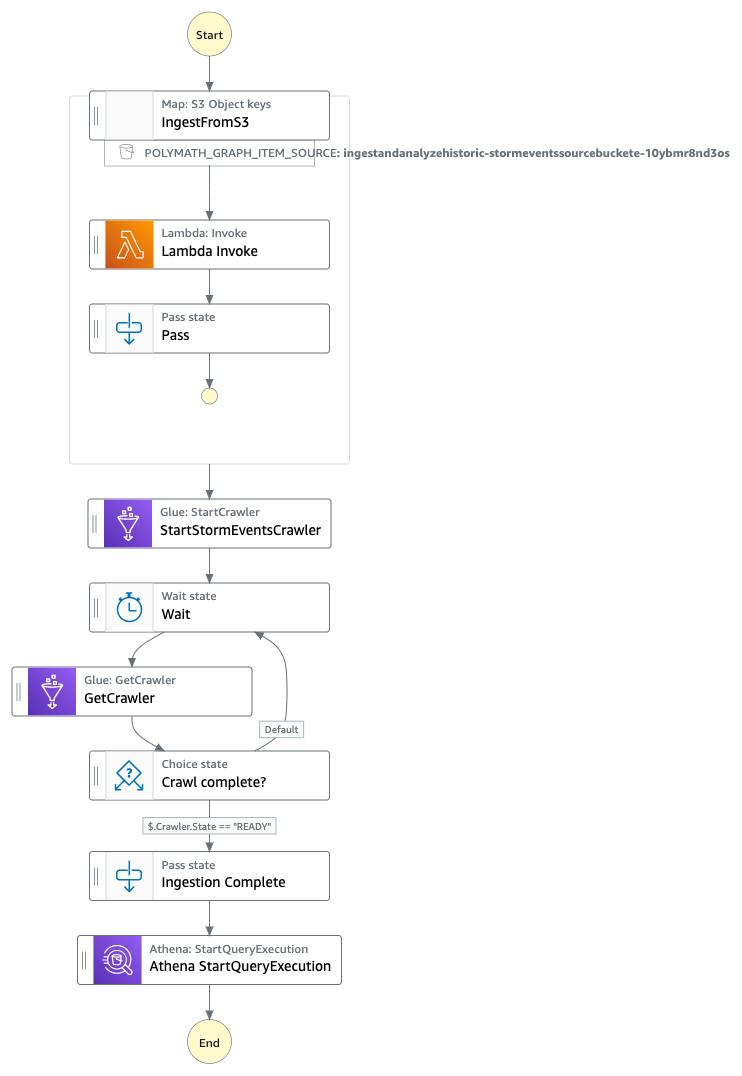
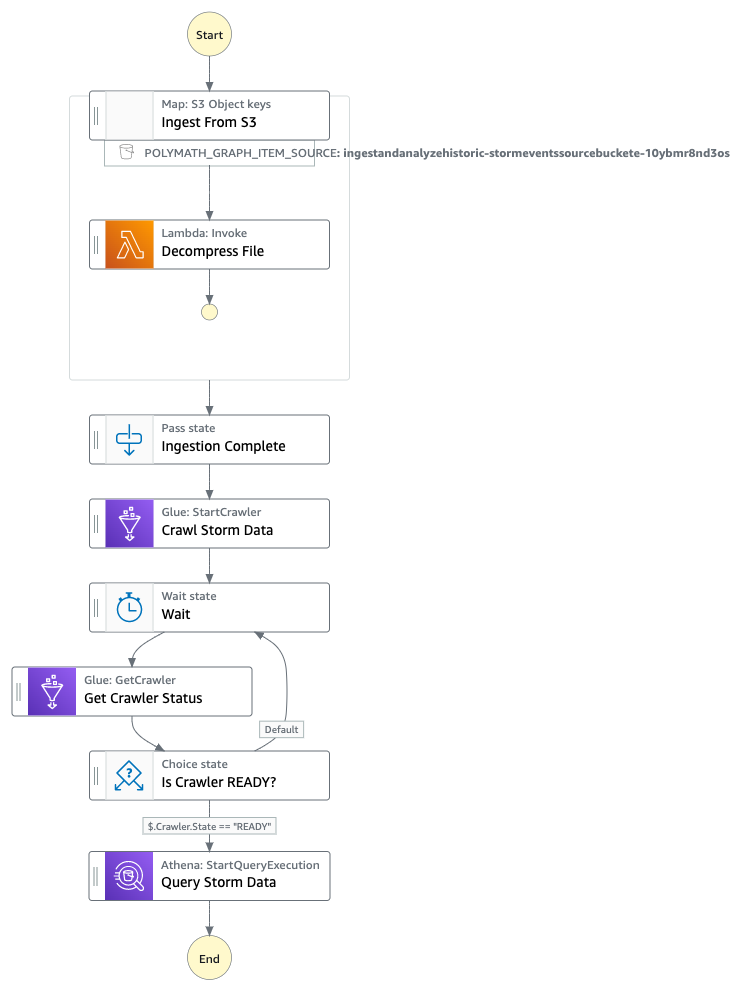
refactor state names

Changed region(s): [[0.0, 0.4062, 0.465, 1.0], [0.124, 0.0, 0.9919, 0.375]]

diff --git a/ingest-and-analyze-historical-storm-events/ingest_and_analyze_historical_storm_events/ingestion.py b/ingest-and-analyze-historical-storm-events/ingest_and_analyze_historical_storm_events/ingestion.py
@@ -146,18 +146,19 @@ class IngestionWorkflow(Construct):
     def build_ingestion_workflow_definition(self, decompress_lambda_arn, athena_workgroupname):
         asl = {
             "Comment": "A description of my state machine",
-            "StartAt": "IngestFromS3",
+            "StartAt": "Ingest From S3",
             "States": {
-                "IngestFromS3": {
+                "Ingest From S3": {
                     "Type": "Map",
+                    "Next": "Ingestion Complete",
                     "ItemProcessor": {
                         "ProcessorConfig": {
                             "Mode": "DISTRIBUTED",
                             "ExecutionType": "STANDARD"
                         },
-                        "StartAt": "Lambda Invoke",
+                        "StartAt": "Decompress File",
                         "States": {
-                            "Lambda Invoke": {
+                            "Decompress File": {
                                 "Type": "Task",
                                 "Resource": "arn:aws:states:::lambda:invoke",
                                 "OutputPath": "$.Payload",
@@ -178,10 +179,6 @@ class IngestionWorkflow(Construct):
                                         "BackoffRate": 2
                                     }
                                 ],
-                                "Next": "Pass"
-                            },
-                            "Pass": {
-                                "Type": "Pass",
                                 "End": True
                             }
                         }
@@ -197,10 +194,10 @@ class IngestionWorkflow(Construct):
                     },
                     "ItemBatcher": {
                         "MaxItemsPerBatch": 5
-                    },
-                    "Next": "StartStormEventsCrawler"
+                    }
+
                 },
-                "StartStormEventsCrawler": {
+                "Crawl Storm Data": {
                     "Type": "Task",
                     "Next": "Wait",
                     "Parameters": {
@@ -211,32 +208,32 @@ class IngestionWorkflow(Construct):
                 "Wait": {
                     "Type": "Wait",
                     "Seconds": WAIT_TIME_IN_SECS,
-                    "Next": "GetCrawler"
+                    "Next": "Get Crawler Status"
                 },
-                "GetCrawler": {
+                "Get Crawler Status": {
                     "Type": "Task",
                     "Parameters": {
                         "Name": self.crawler_name
                     },
                     "Resource": "arn:aws:states:::aws-sdk:glue:getCrawler",
-                    "Next": "Crawl complete?"
+                    "Next": "Is Crawler READY?"
                 },
-                "Crawl complete?": {
+                "Is Crawler READY?": {
                     "Type": "Choice",
                     "Choices": [
                         {
                             "Variable": "$.Crawler.State",
                             "StringEquals": "READY",
-                            "Next": "Ingestion Complete"
+                            "Next": "Query Storm Data"
                         }
                     ],
                     "Default": "Wait"
                 },
                 "Ingestion Complete": {
                     "Type": "Pass",
-                    "Next": "Athena StartQueryExecution"
+                    "Next": "Crawl Storm Data"
                 },
-                "Athena StartQueryExecution": {
+                "Query Storm Data": {
                     "End": True,
                     "Parameters": {
                         "QueryString": QUERY_NUMBER_OF_OCCURRENCES_OF_STORM_EVENT_BY_TYPE_AND_STATE,
